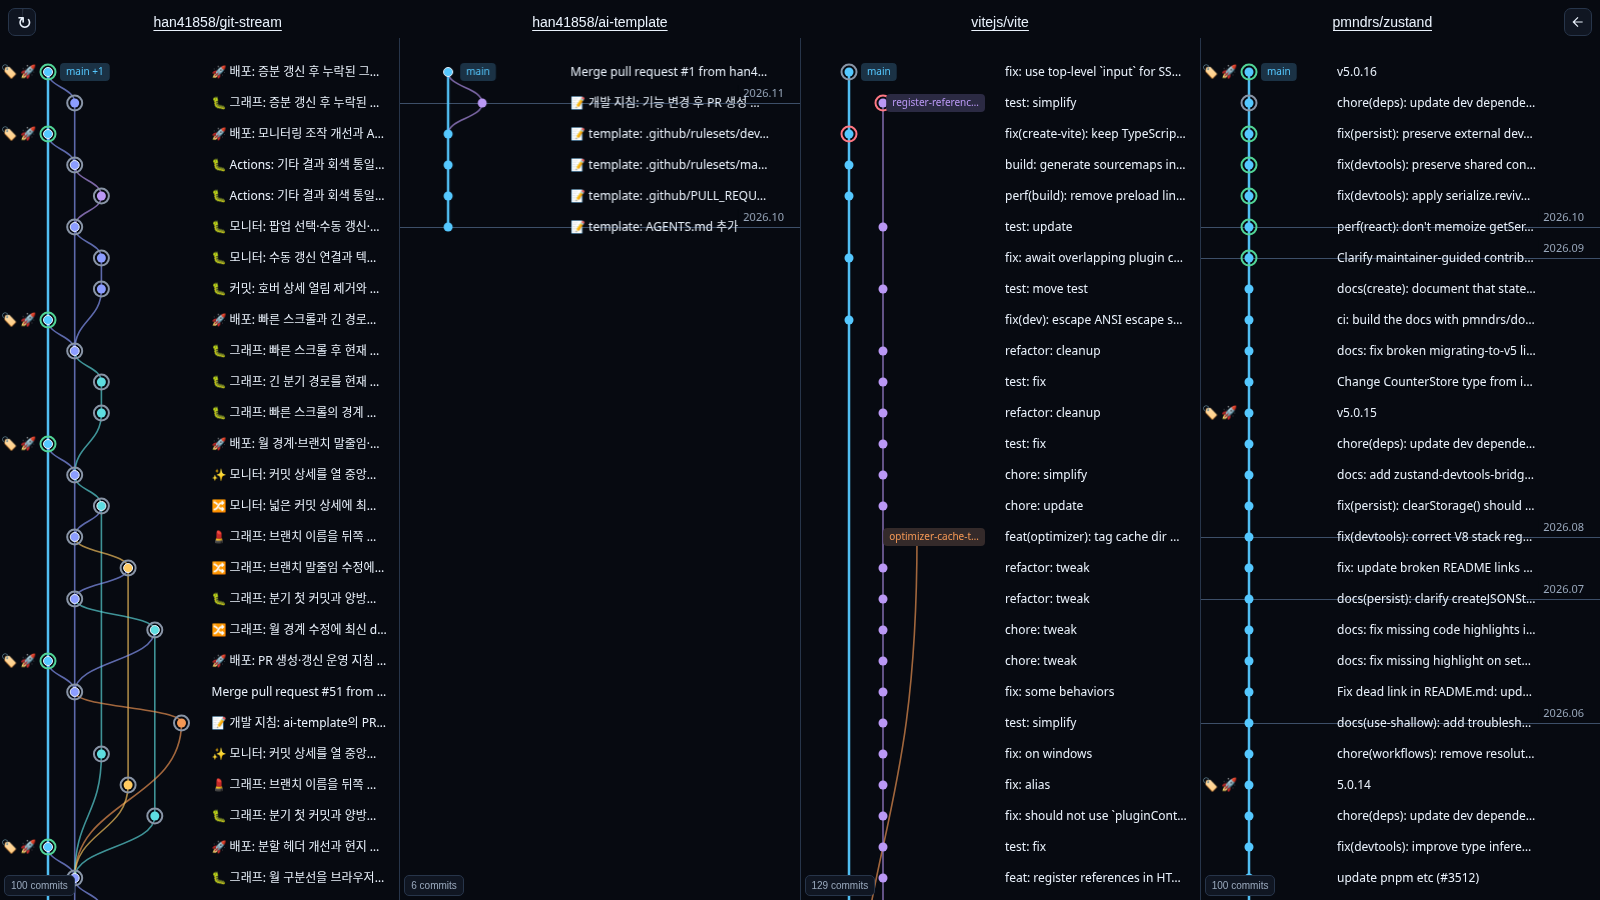
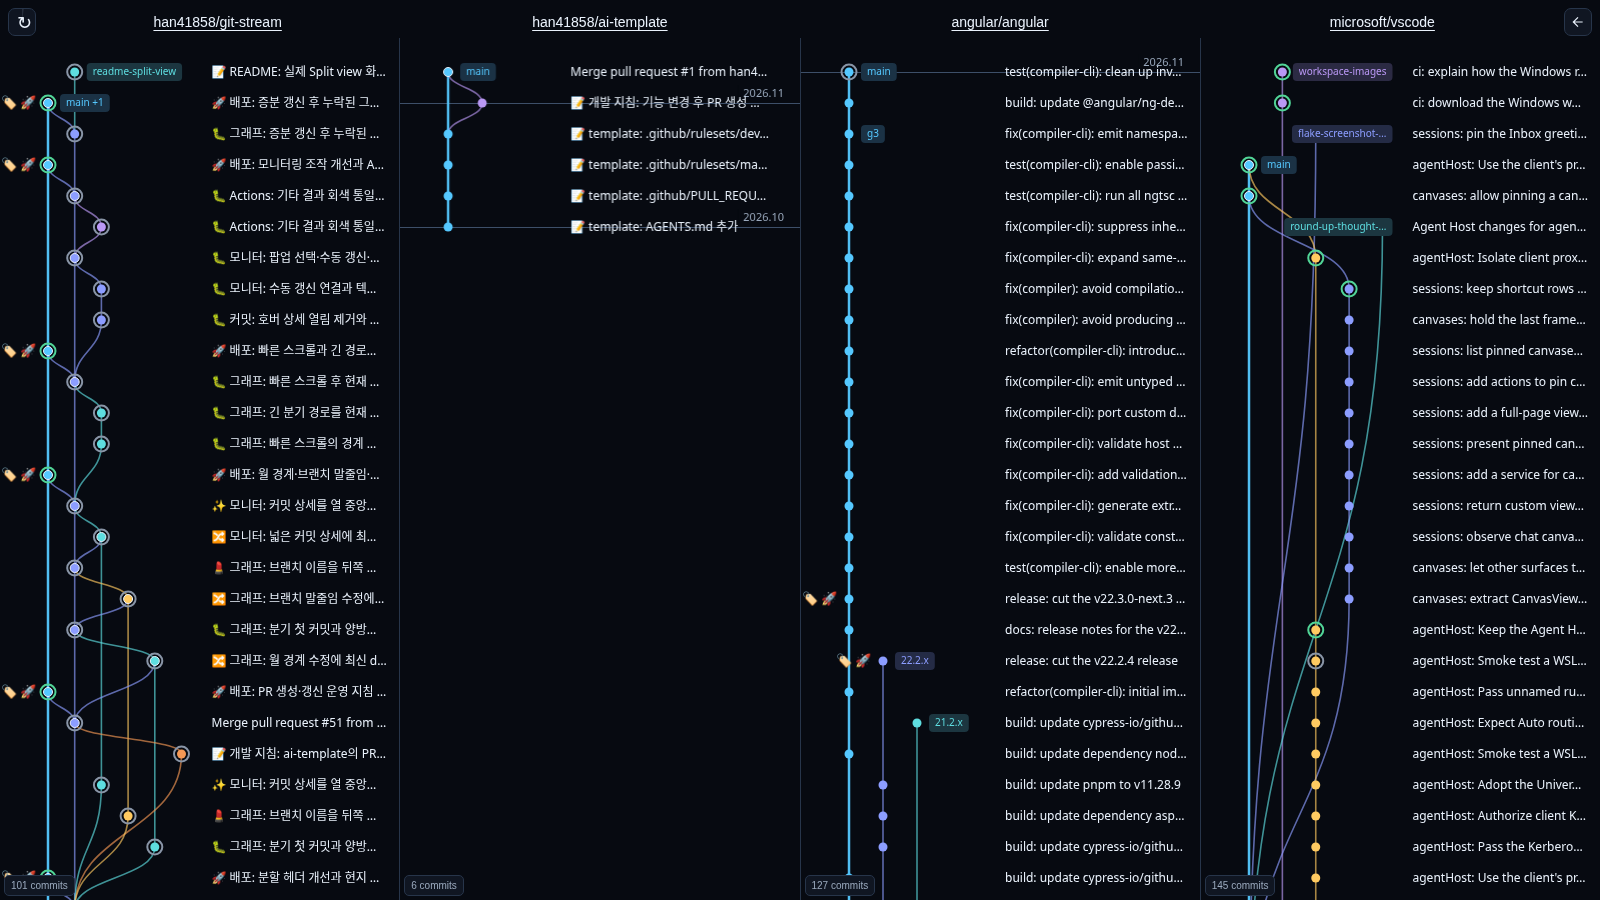
📝 README: Angular와 VS Code 실제 그래프로 캡처 갱신

diff --git a/docs/images/README.md b/docs/images/README.md
@@ -3,7 +3,7 @@
 ## Split view (2026-11-02, Asia/Seoul)
 
 - Captured in Chromium from an unmodified local Production build of `dev` commit `8a2d3d5f06bbb14fb854d58bffa6901775d817b2` (the same file tree as Production commit `ee9c29fd65e0453b7fe4f267cba6ca96fe57d6c0`). The hosted app's domain was unavailable under the capture environment's network policy.
-- All four repositories were confirmed public by their live GitHub metadata, in this left-to-right order: [`han41858/git-stream`](https://github.com/han41858/git-stream), [`han41858/ai-template`](https://github.com/han41858/ai-template), [`vitejs/vite`](https://github.com/vitejs/vite), [`pmndrs/zustand`](https://github.com/pmndrs/zustand).
+- All four repositories were confirmed public by their live GitHub metadata, in this left-to-right order: [`han41858/git-stream`](https://github.com/han41858/git-stream), [`han41858/ai-template`](https://github.com/han41858/ai-template), [`angular/angular`](https://github.com/angular/angular), [`microsoft/vscode`](https://github.com/microsoft/vscode).
 - Browser API requests were relayed through the environment's allowed HTTP proxy to `api.github.com`; response bodies were passed through unchanged. No fabricated commits, branches or workflow states, UI composition, or image overlays were used. No token was entered or stored in the app.
 - Mobile uses Chromium touch/viewport emulation at device scale 1. These are app viewport screenshots, not physical-device or OS-level installed-PWA captures. The mobile screenshots use the same browser session and repository order, resized from portrait to landscape.
 
@@ -11,9 +11,9 @@
 | --- | --- | --- |
 | `split-desktop.png` | 1600 × 900 | Four columns with independent graphs, commit messages, refs and Actions rings |
 | `split-mobile-portrait.png` | 390 × 844 | The same four repositories in narrow, DAG-focused columns |
-| `split-mobile-landscape.png` | 844 × 390 | The same layout after rotation; messages appear in the AI Template, Vite and Zustand columns |
+| `split-mobile-landscape.png` | 844 × 390 | The same layout after rotation; messages appear in the AI Template and Angular columns |
 
-The denser `han41858/git-stream` graph hides messages in both mobile captures; the single-lane Zustand graph still shows short, truncated messages in portrait. Message visibility depends on each column's width and actual lane spacing, not orientation alone. The captured mobile resize generated no additional API requests. Select any node to inspect full details even when messages are hidden.
+The captures contrast AI Template's short history with Angular's release branches and VS Code's intertwined active branches. They show the currently loaded history, not each repository's complete DAG. All four portrait columns hide messages; the denser GitStream and VS Code graphs keep them hidden in landscape too. Message visibility depends on each column's width and actual lane spacing, not orientation alone. The captured mobile resize generated no additional API requests. Select any node to inspect full details even when messages are hidden.
 
 The older single-repository `mobile.png` remains available as a historical capture; the README now uses the Split view comparison instead.
 
@@ -40,6 +40,6 @@ The GIF follows `docs/readme-product-page` during a normal one-minute automatic 
 3. Set the desktop/mobile viewport sizes listed above and select a real commit through the graph. Wait for request activity to settle before saving a PNG.
 4. For the GIF, select a branch receiving a real change, choose a one-minute refresh interval in Options, dismiss the menu and click an empty area to clear focus. Record the next scheduled check as the new commit appears.
 
-For Split view, use the same Production-build commands, open `/?repo=han41858/git-stream&repo=han41858/ai-template&repo=vitejs/vite&repo=pmndrs/zustand`, and wait for all four columns and metadata requests to settle. Capture at 1600 × 900 on desktop and at 390 × 844 with mobile touch emulation. Resize that mobile session to 844 × 390 and capture again without changing repository order or scroll position. Use the dark theme and save the browser's PNG output without altering the UI or data.
+For Split view, use the same Production-build commands, open `/?repo=han41858/git-stream&repo=han41858/ai-template&repo=angular/angular&repo=microsoft/vscode`, and wait for all four columns and metadata requests to settle. Capture at 1600 × 900 on desktop and at 390 × 844 with mobile touch emulation. Resize that mobile session to 844 × 390 and capture again without changing repository order or scroll position. Use the dark theme and save the browser's PNG output without altering the UI or data.
 
 Live repository contents and workflow states can change, so later captures need not have the same commit count or timestamps.

diff --git a/README.md b/README.md
@@ -37,7 +37,7 @@
 
 </details>
 
-![GitStream Split view showing GitStream, AI Template, Vite and Zustand in four desktop columns](docs/images/split-desktop.png)
+![GitStream Split view showing GitStream, AI Template, Angular and VS Code in four desktop columns](docs/images/split-desktop.png)
 
 Choose **Split view** to select and reorder repositories. Inspect commits and GitHub Actions in any column, then use **Copy link** in the selection dialog to share the arrangement.
 
@@ -45,7 +45,7 @@ Choose **Split view** to select and reorder repositories. Inspect commits and Gi
   <tr><th>Portrait</th><th>Landscape</th></tr>
   <tr>
     <td width="28%" align="center" valign="top"><img src="docs/images/split-mobile-portrait.png" alt="The same four public repositories in portrait Split view, with narrow graph columns" width="195" /></td>
-    <td width="72%" align="center" valign="top"><img src="docs/images/split-mobile-landscape.png" alt="The same four repositories in landscape Split view, with one-line commit messages visible in three columns" width="562" /></td>
+    <td width="72%" align="center" valign="top"><img src="docs/images/split-mobile-landscape.png" alt="The same four repositories in landscape Split view, with messages in the AI Template and Angular columns and graph-only views for GitStream and VS Code" width="562" /></td>
   </tr>
 </table>
 
